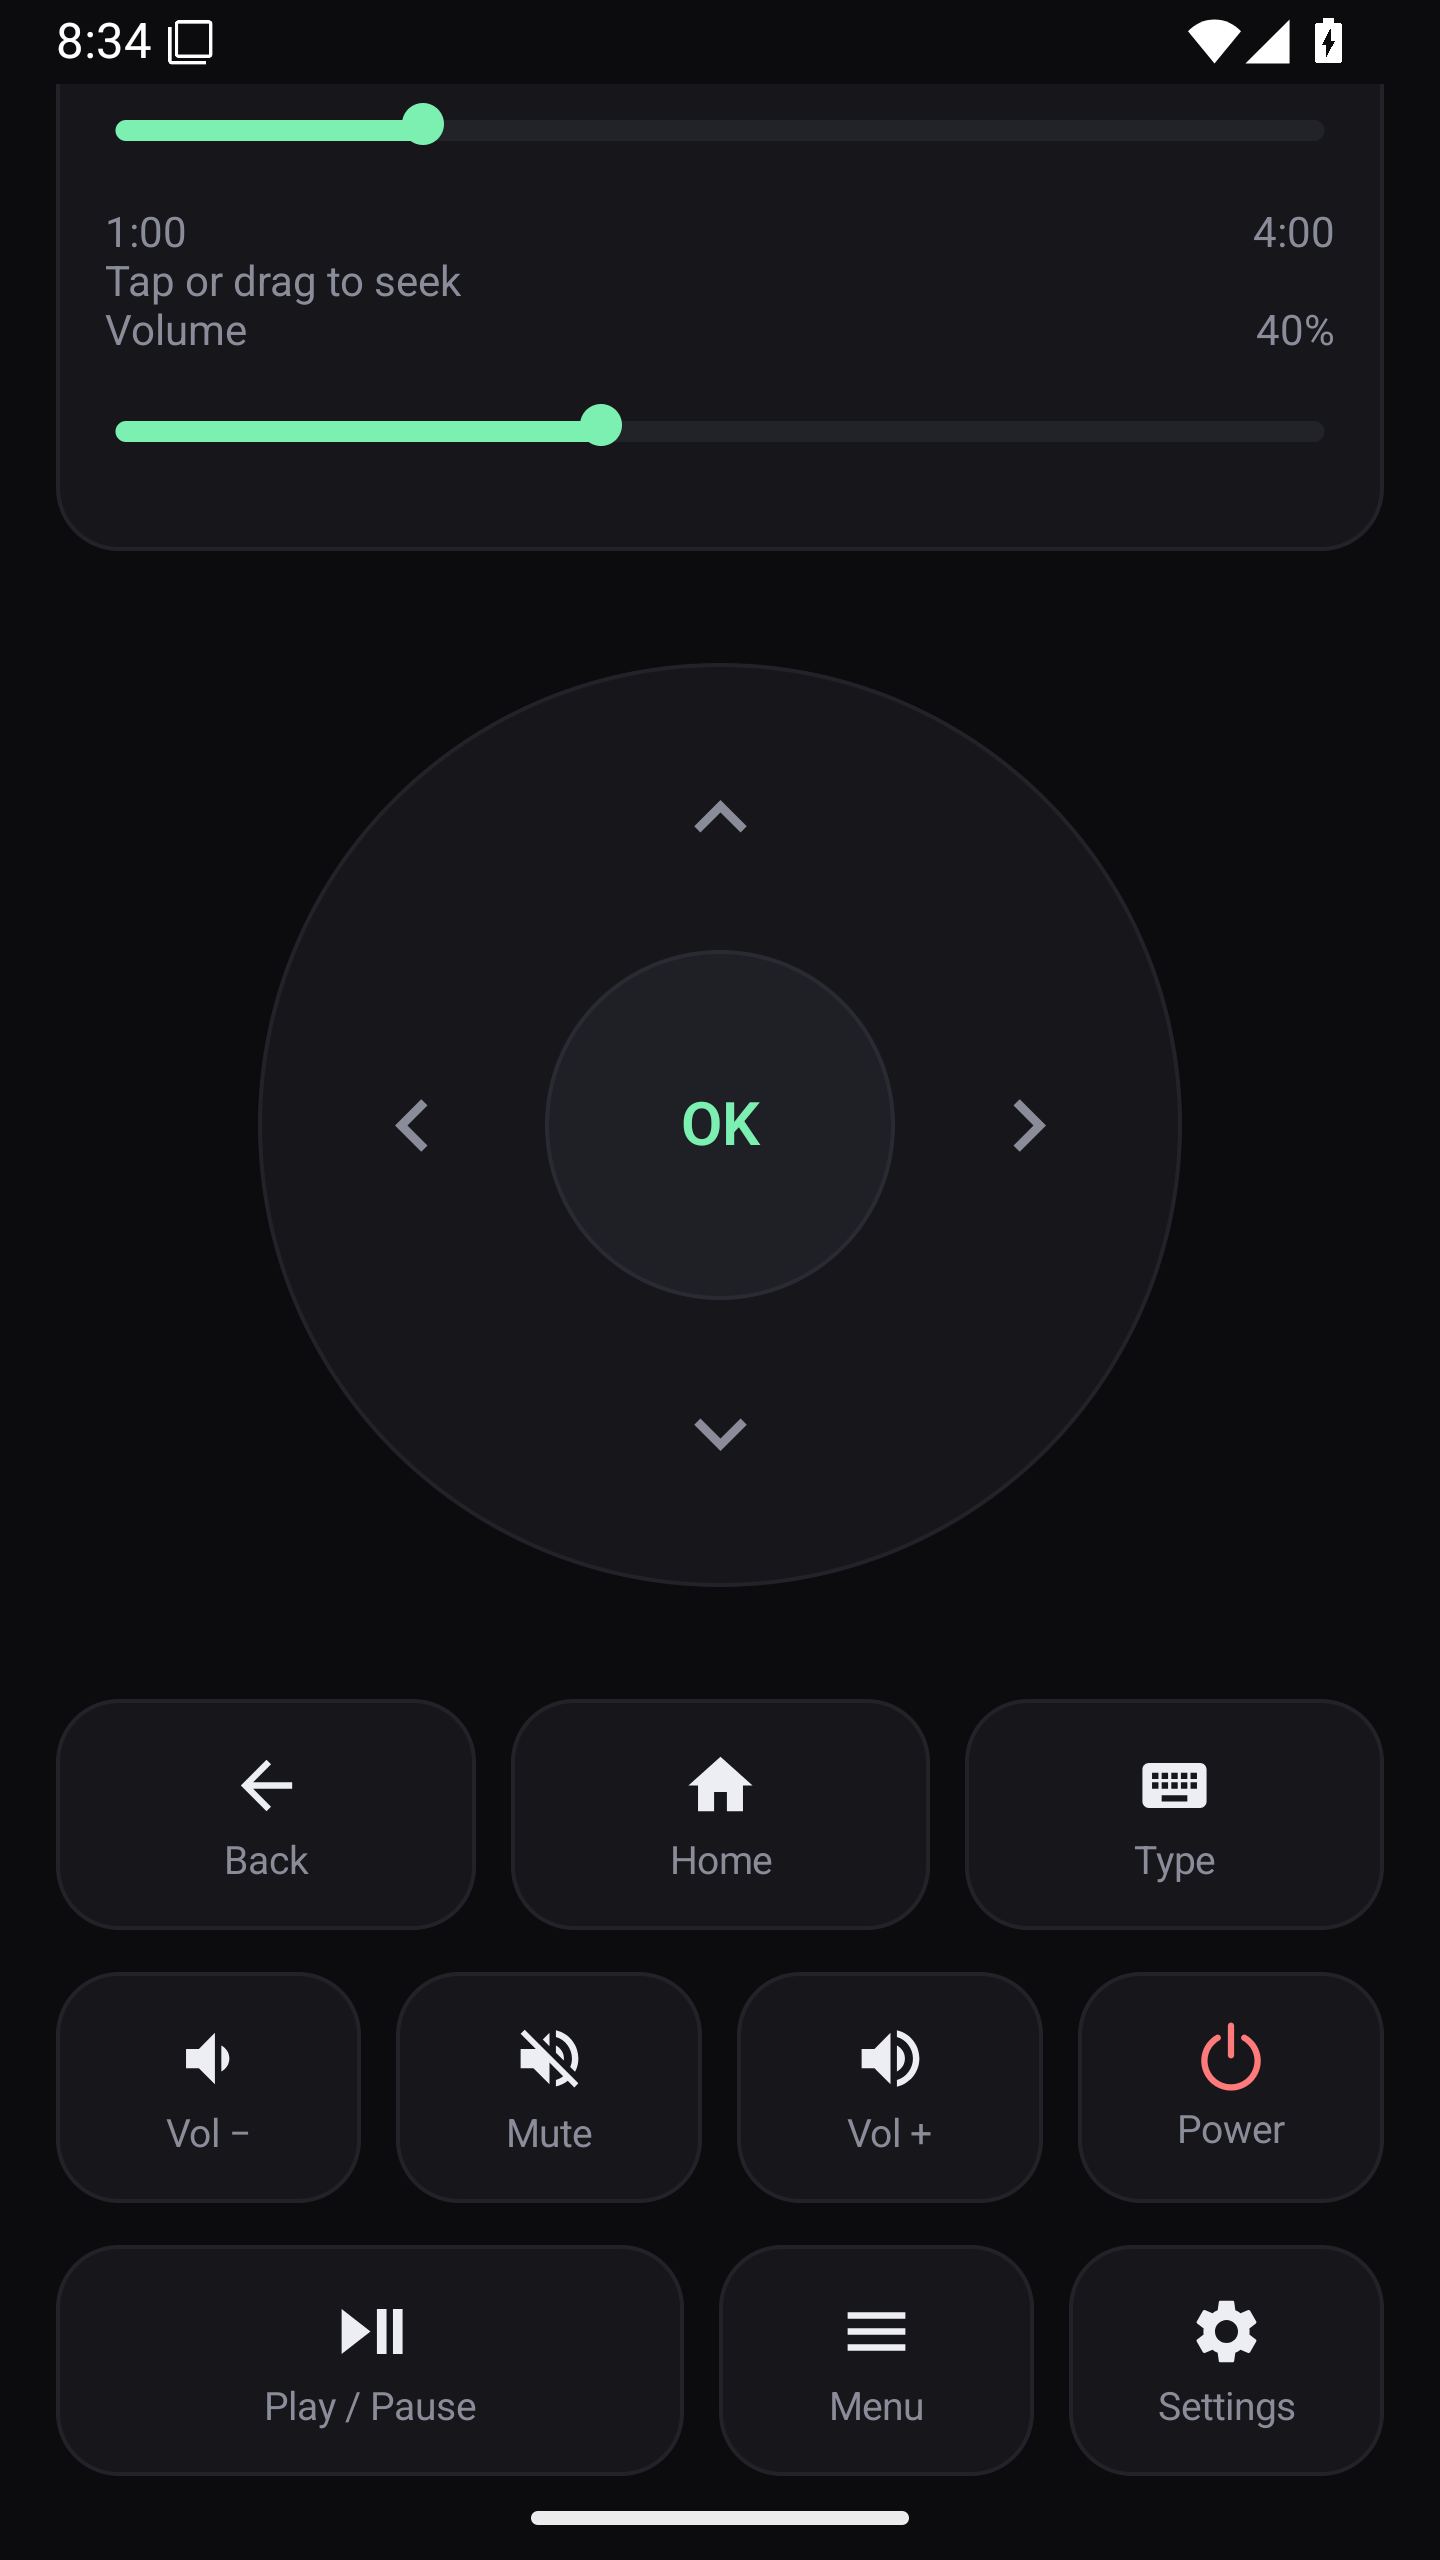
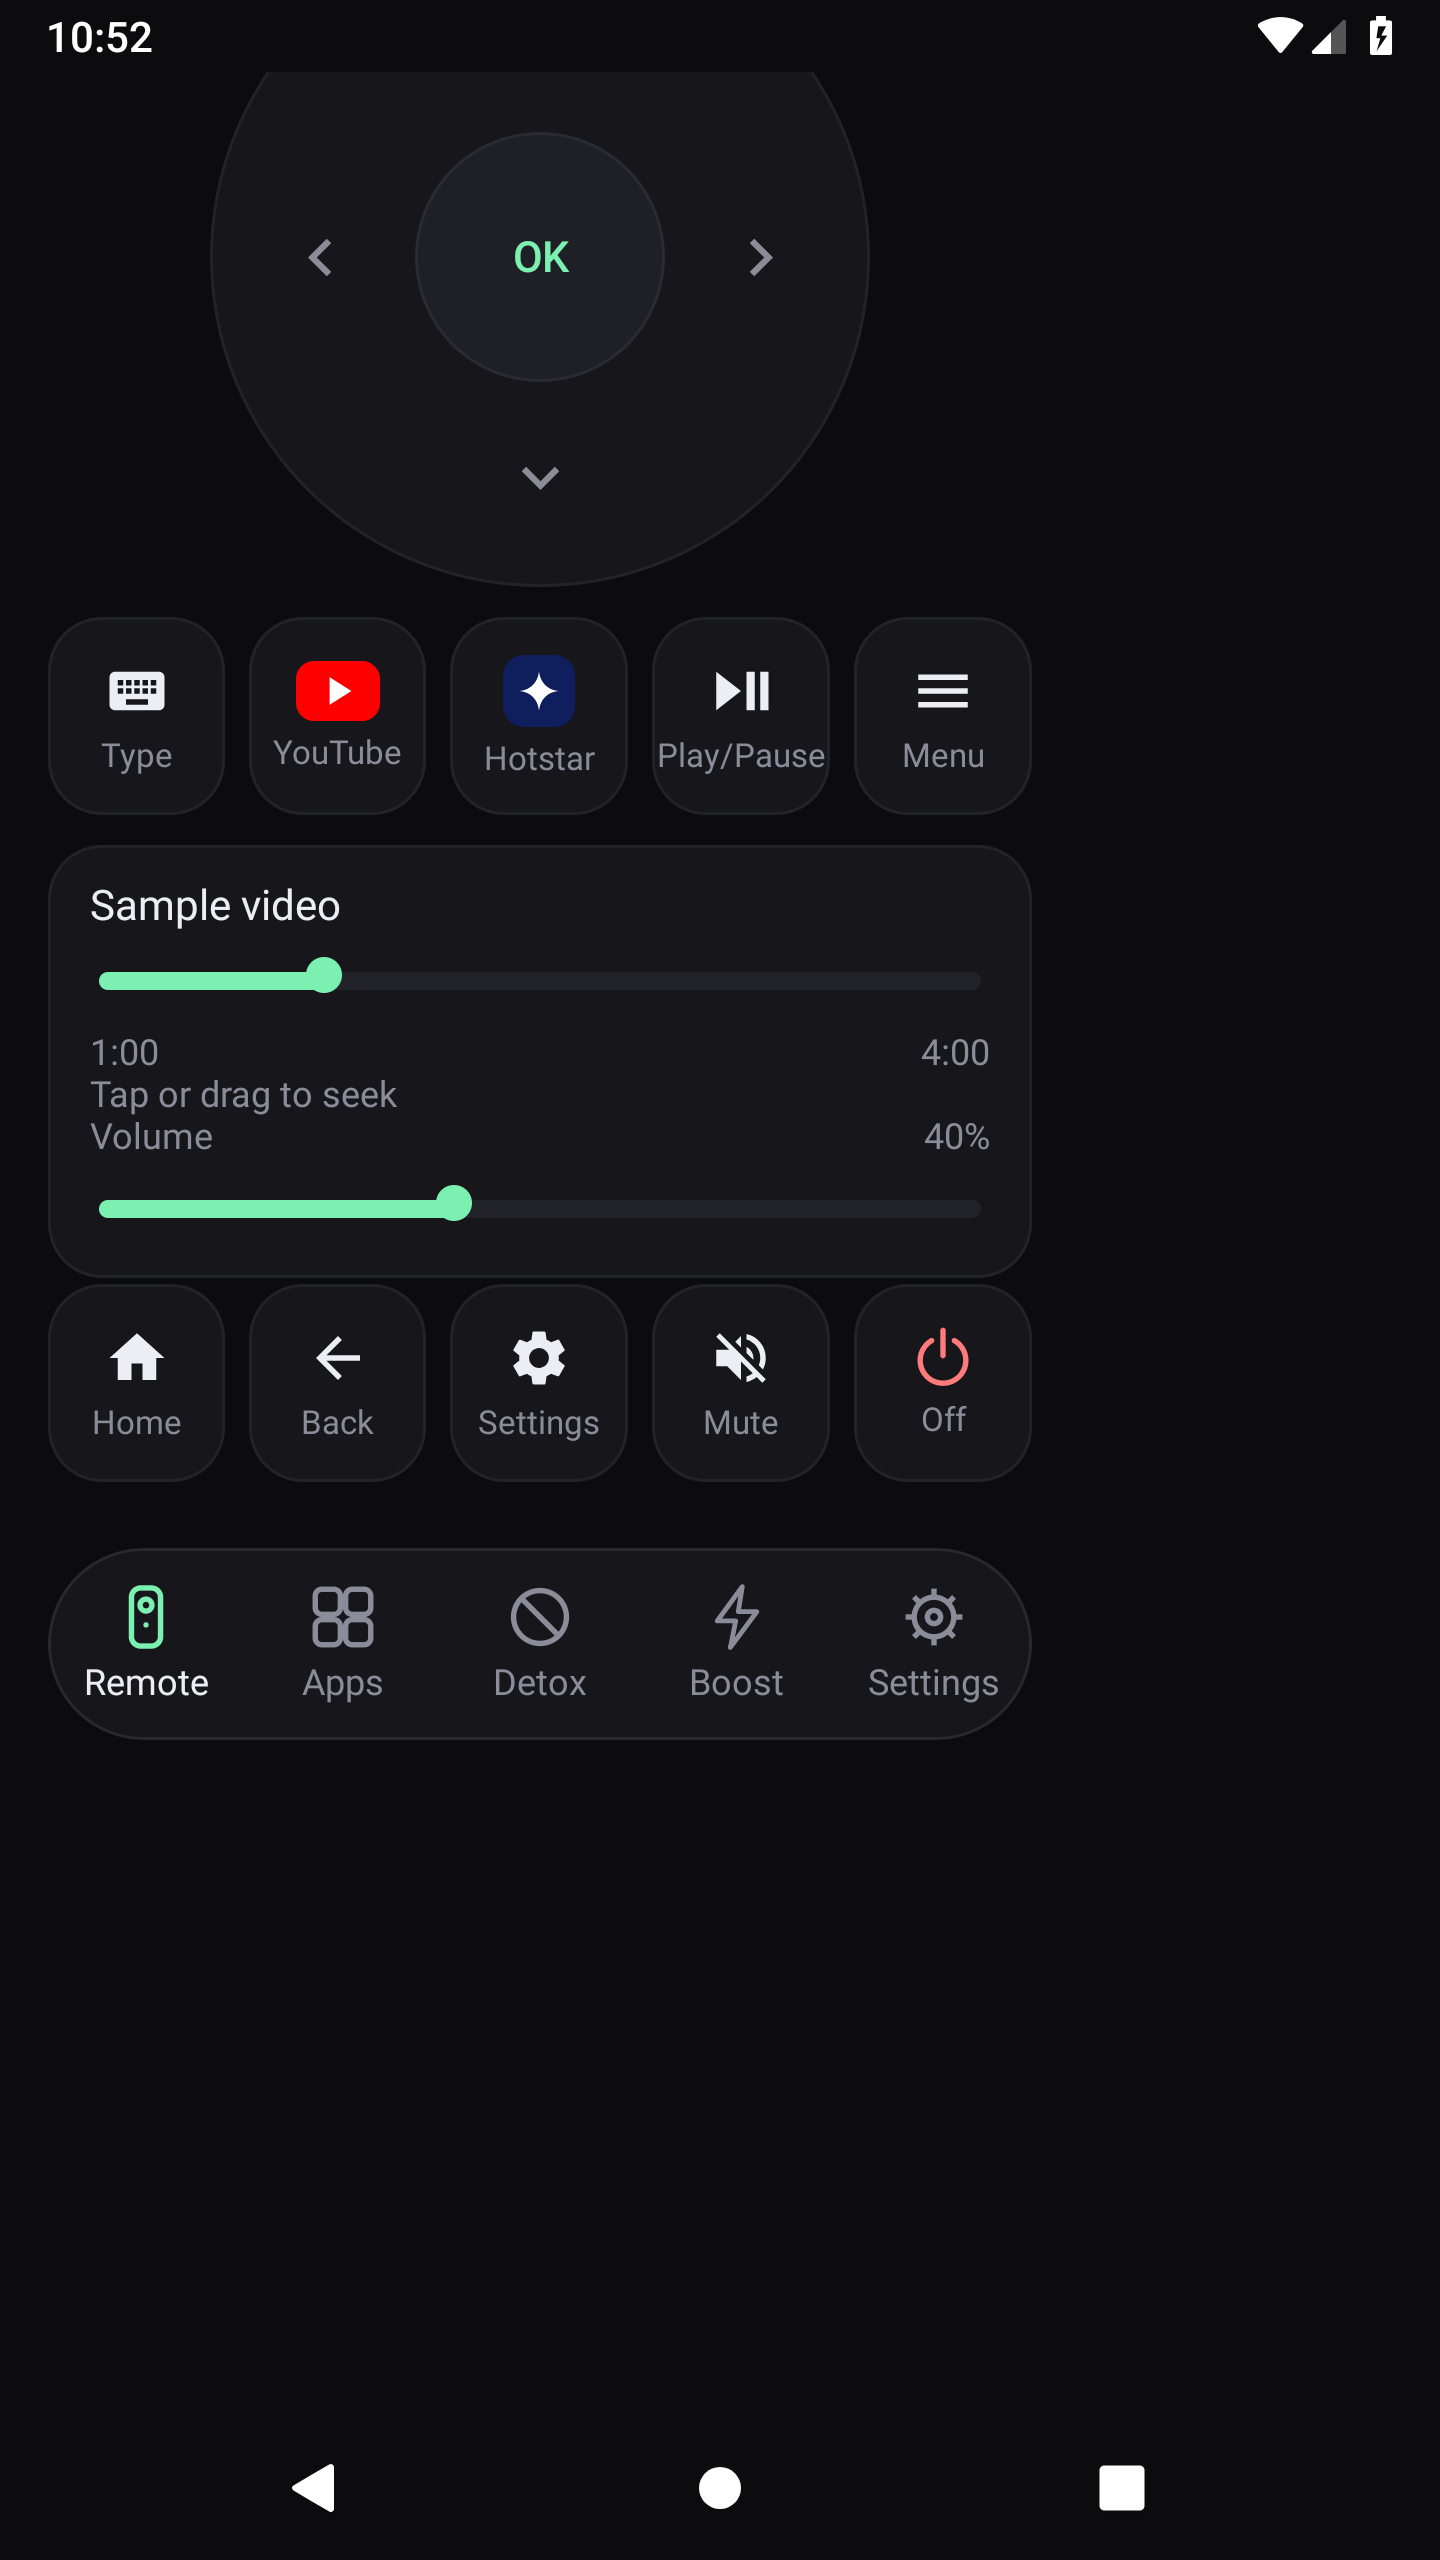
docs: replace Remote mockups with 2.2.0 tall and small emulator captures [skip ci]

diff --git a/.github/assets/plus/README.md b/.github/assets/plus/README.md
@@ -2,22 +2,23 @@
 
 These PNGs are unmodified captures of the real Android UI, using controlled sample data. They are not generated mockups, physical-TV certification or proof of support in every streaming app.
 
-- App: Konnect TV Plus 2.1.0 (`io.konnecttv.plus`), bundled Glowlauncher 1.2.0.
-- Tested source: [`16e77690b3435f875d9c2452e9e63af9909fda5e`](https://github.com/ankitchanki/konnect-tv-Android-9/commit/16e77690b3435f875d9c2452e9e63af9909fda5e).
-- [Successful build/runtime run](https://github.com/ankitchanki/konnect-tv-Android-9/actions/runs/39569822179), artifacts **Android-API-28-smoke-results** and **Android-API-36-smoke-results**, directory `ui-previews/`.
-- Emulator profile: Nexus 6. API 28 is Android 9; API 36 is Android 16.
+- Remote captures: Konnect TV Plus 2.2.0 (`io.konnecttv.plus`), bundled Glowlauncher 1.2.0. Other images remain from the 2.1.0 run listed below.
+- Original 2.1.0 tested source: [`16e77690b3435f875d9c2452e9e63af9909fda5e`](https://github.com/ankitchanki/konnect-tv-Android-9/commit/16e77690b3435f875d9c2452e9e63af9909fda5e).
+- [Original 2.1.0 build/runtime run](https://github.com/ankitchanki/konnect-tv-Android-9/actions/runs/39569822179), artifacts **Android-API-28-smoke-results** and **Android-API-36-smoke-results**, directory `ui-previews/`.
+- 2.2.0 tested source: [`f8846302f732dba5946b13de65f518c63d8d5ff1`](https://github.com/ankitchanki/konnect-tv-Android-9/commit/f8846302f732dba5946b13de65f518c63d8d5ff1). [Full build and API 28/36 run](https://github.com/ankitchanki/konnect-tv-Android-9/actions/runs/39587443398). Remote images come from its **Android-API-28-smoke-results** artifact.
+- Emulator profile: Nexus 6. The 2.2.0 run sets density to 480dpi for a ~480×853dp tall screen; its small-screen fixture uses a 360×640dp viewport. API 28 is Android 9; API 36 is Android 16.
 
 | File | Android API | Capture / sample data |
 |:--|:--|:--|
-| `remote-sliders.png` | 28 | `RemoteMediaTest.currentRemoteScreenshotsIncludeTheNewSlidersAndOriginalButtons`; upper Remote panel, sample four-minute video at 1:00 and volume 40%. |
-| `remote-buttons.png` | 36 | Same test; lower Remote panel with the original button rows visible. |
+| `remote-sliders.png` | 28 | 2.2.0: `RemoteMediaTest.tallRemoteFillsTheSpaceAboveTheTabBar`; Nexus 6 full Remote with floating tabs, sample four-minute video at 1:00 and volume 40%. |
+| `remote-buttons.png` | 28 | 2.2.0: `RemoteMediaTest.smallRemoteKeepsMinimumDpadAndScrollsToBottomKeys`; 360 × 640dp viewport, scrolled to the bottom; surrounding emulator area/system bars remain intact. |
 | `media-setup.png` | 28 | `RemoteMediaTest.mediaAccessSetupRequiresAnExplicitTap`; initial disabled state and access disclosure; no permission is granted by this screenshot fixture. |
 | `saved-tvs.png` | 28 | `Android9SmokeTest.savedTvCanBeNamedTaggedAndReusedWithoutTypingTheIp`; sample Living room / Friend's TV and local address. |
 | `wallpaper-editor.png` | 28 | `Android9SmokeTest.wallpaperEditorOffersFitAndCropOnAndroid9`; gradient fixture, fit mode and 16:9 TV preview. |
 | `diagnostic-logs.png` | 28 | `PlusDiagnosticsTest.firstLaunchLogsWorkWithoutATvAndPersistRedactedErrors`; deliberately recorded installation failure with redacted sample values. |
 | `already-off.png` | 28 | `PlusDiagnosticsTest.alreadyDisabledAndOwnerRemovedAppsOfferRecoveryWithoutHistory`; simulated TCL identity/package states and recovery controls. |
 
-Remote, setup and Detox captures isolate the actual control components; their fixtures do not mount the main app's floating tab bar. The full connected app has Remote, Apps, Detox, Boost and Settings tabs. Images are kept intact, including native Android system bars. No real TV or account information appears in these fixtures.
+The 2.2.0 Remote fixtures mount the actual Remote and floating tab bar together, with sample playback and a disconnected ADB transport. Setup and Detox captures isolate their control components. The full connected app has Remote, Apps, Detox, Boost and Settings tabs. Images are kept intact, including native Android system bars. No real TV or account information appears in these fixtures.
 
 Runtime integration tests separately exercise an actual Android media session, absolute seek and volume changes, stale-media refusal, caller restrictions and revoked access. The sample player shown in the gallery is only a UI fixture.
 

diff --git a/README.md b/README.md
@@ -8,30 +8,30 @@ This is a fork of [KonnectTV by yashoncode](https://github.com/yashoncode/konnec
 
 [Download APKs](https://github.com/ankitchanki/konnect-tv-Android-9/releases) · [Build and emulator results](https://github.com/ankitchanki/konnect-tv-Android-9/actions) · [Package catalog and sources](docs/PACKAGE-CATALOG.md) · [UI design (SVG)](docs/design/README.md)
 
-## What's new
+## What's new in 2.2.0
 
-- **Remote layout redesigned:** the D-pad sits on top, then one row of equal keys (**Type · YouTube · Hotstar · Play/Pause · Menu**), then the seek and volume lines, then **Home · Back · Settings · Mute · Off** directly under them. Everything fits on one phone screen without scrolling, with tighter spacing.
-- **One-tap YouTube and Hotstar:** quick-launch keys open whichever YouTube or Hotstar package the TV has installed, or say that it is not installed.
+- **Remote layout redesigned:** the D-pad sits on top, then one row of equal keys (**Type · YouTube · Hotstar · Play/Pause · Menu**), then the seek and volume lines, then **Home · Back · Settings · Mute · Off** directly under them. Tall phones get a larger D-pad and the keys sit just above the tab bar. Short screens scroll while keeping a D-pad of at least 220dp.
+- **One-tap YouTube and Hotstar:** quick-launch keys open the first matching YouTube or Hotstar package in the supported package list, or say that it is not installed.
 - **Vol − and Vol + keys removed:** the volume line sets TV volume directly. Mute stays.
 - **Branch release workflow:** a separate workflow builds a release APK from the development branch, signed with repository secrets when they are set.
 - **Vector UI designs:** every phone screen, sheet and Glowlauncher TV state as editable SVG in [docs/design](docs/design/README.md).
 
 ## UI previews
 
-The new Remote is shown as its design mockup (dark and light); emulator screenshots of it will replace these after the next screenshot run. The other images are screenshots from **Konnect TV Plus 2.1.0 on Android 9 and Android 16**, using sample TV, playback and package data. Tap an image to open it at full size.
+The Remote images are real **Konnect TV Plus 2.2.0** emulator captures, including the floating tab bar: a tall screen and a 360 × 640dp viewport scrolled to its bottom keys. Other captures remain from **2.1.0 on Android 9 and Android 16**. All use sample TV, playback and package data. Tap an image to open it at full size.
 
 <table>
   <tr>
-    <th>Remote (dark)</th>
-    <th>Remote (light)</th>
+    <th>Remote · tall screen</th>
+    <th>Remote · small screen, scrolled</th>
   </tr>
   <tr>
-    <td align="center"><a href="docs/design/phone/06-remote.svg"><img src="docs/design/phone/06-remote.svg" width="260" alt="Remote design: D-pad, a row of Type, YouTube, Hotstar, Play/Pause and Menu keys, the media card with seek and volume lines, then Home, Back, Settings, Mute and Off keys above the tab bar"></a></td>
-    <td align="center"><a href="docs/design/phone/07-remote-light.svg"><img src="docs/design/phone/07-remote-light.svg" width="260" alt="The same Remote layout in the light theme"></a></td>
+    <td align="center"><a href=".github/assets/plus/remote-sliders.png"><img src=".github/assets/plus/remote-sliders.png" width="260" alt="Remote screenshot: D-pad, a row of Type, YouTube, Hotstar, Play/Pause and Menu keys, the media card with seek and volume lines, then Home, Back, Settings, Mute and Off keys above the tab bar"></a></td>
+    <td align="center"><a href=".github/assets/plus/remote-buttons.png"><img src=".github/assets/plus/remote-buttons.png" width="260" alt="Actual Remote on a small 360 by 640dp viewport, scrolled to the media lines and bottom keys above the tab bar"></a></td>
   </tr>
   <tr>
-    <td>All keys share one size and fit on one screen. Tap or drag a line to request the selected volume or playback position; unsupported controls show a reason.</td>
-    <td>The sun/moon button in the header switches themes.</td>
+    <td>All keys share one size; the D-pad grows to fill available space. Tap or drag a line to request the selected volume or playback position; unsupported controls show a reason.</td>
+    <td>Small screens scroll while keeping the D-pad at least 220dp. Navigation-bar insets keep bottom keys clear of the tabs.</td>
   </tr>
   <tr>
     <th>Saved TVs, names and tags</th>
